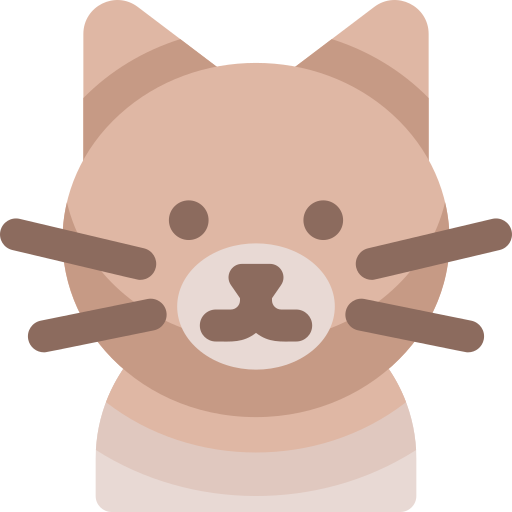
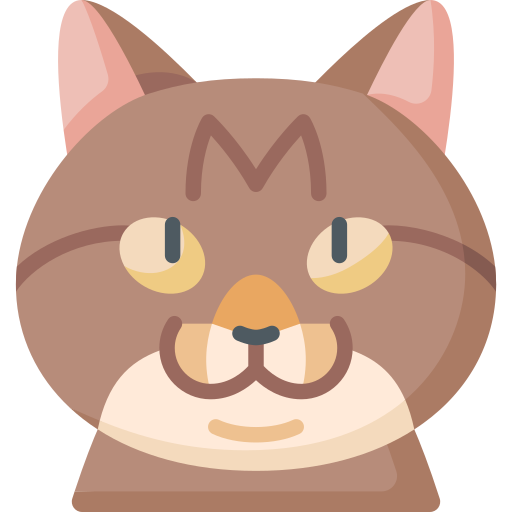
Style Changes, Adding Highscore, Adjust Difficulty
Difficulty now increases based on the current score gradually.

diff --git a/app.js b/app.js
@@ -9,33 +9,38 @@ let cat = [{
 let snack;
 let cellWidth = canvas.width / cols;
 let cellHeight = canvas.height / rows;
-let difficulty;
+let gameSpeed;
 let direction = 'right';
 let snackEaten = false;
 let score = 0;
+let highscore = 0;
 let catImg = document.getElementById('catImg');
+let highscoreText = document.getElementById('highscoreText');
 
 spawnSnack();
-difficulty = setInterval(gameLoop, 250)
+gameSpeed = setInterval(gameLoop, 250)
 document.addEventListener('keydown', keyDown)
 draw();
 
 
 function draw() {
     //Background
-    ctx.fillStyle = 'lightgrey';
+    ctx.fillStyle = '#463730';
     ctx.fillRect(0, 0, canvas.width, canvas.height);
 
     //Cat
     ctx.drawImage(catImg, cat[0].x * cellWidth, cat[0].y * cellHeight, cellWidth, cellHeight);
-    ctx.fillStyle = "#5b453b";
+    ctx.fillStyle = "#ab7b64";
     for (let i = 1; i < cat.length; i++) {
-        addPixel(cat[i].x, cat[i].y);
+        drawElement(cat[i].x, cat[i].y);
     }
 
     //Snack
-    ctx.fillStyle = '#ccac0c';
-    addPixel(snack.x, snack.y);
+    ctx.fillStyle = '#d2ba64';
+    ctx.beginPath();
+    ctx.arc((snack.x * cellWidth + cellWidth / 2), (snack.y * cellHeight + cellHeight / 2), cellWidth / 2, 0, 2 * Math.PI);
+    ctx.stroke();
+    ctx.fill();
 
     requestAnimationFrame(draw);
 }
@@ -52,7 +57,6 @@ function checkGameOver() {
     ) {
         resetGame();
     }
-
 }
 
 function spawnSnack() {
@@ -64,8 +68,7 @@ function spawnSnack() {
         spawnSnack();
 }
 
-
-function addPixel(x, y) {
+function drawElement(x, y) {
     ctx.fillRect(x * cellWidth, y * cellHeight, cellWidth, cellHeight);
 }
 
@@ -105,16 +108,13 @@ function gameLoop() {
         snackEaten = true;
         score++;
         spawnSnack();
+        increaseDifficulty();
     }
+}
 
-    if (score >= 10 && score < 20) {
-        clearInterval(difficulty);
-        difficulty = setInterval(gameLoop, 200);
-    }
-    else if (score >= 20 && score < 30) {
-        clearInterval(difficulty);
-        difficulty = setInterval(gameLoop, 150);
-    }
+function increaseDifficulty() {
+    clearInterval(gameSpeed);
+    gameSpeed = setInterval(gameLoop, 250 - score * 3);
 }
 
 function keyDown(k) {
@@ -145,12 +145,14 @@ function keyDown(k) {
 }
 
 function resetGame() {
-    if (score > 0)
-        alert('You scored ' + score + ' point(s)');
+    if (score > highscore) {
+        highscore = score;
+        highscoreText.innerHTML = 'Last Highscore: ' + highscore;
+    }
     cat = [{ x: 1, y: 1 }];
     direction = 'right';
     score = 0;
     spawnSnack();
-    clearInterval(difficulty);
-    difficulty = setInterval(gameLoop, 250);
+    clearInterval(gameSpeed);
+    gameSpeed = setInterval(gameLoop, 250);
 }

diff --git a/main.css b/main.css
@@ -1,20 +1,18 @@
 body {
-    background: #b2a898;
+    background: #b89c8f;
     color: #281e19;
-    font-family: 'Gill Sans', 'Gill Sans MT', Calibri, 'Trebuchet MS', sans-serif;
+    font-family: Verdana, Geneva, Tahoma, sans-serif;
     text-align: center;
-
 }
 
 h1 {
     font-family: fantasy;
-    color:#5b453b;
+    color: #5a433e;
     font-size: 50px;
     font-variant: small-caps;
-    text-decoration: line-through;
-    border: 3px solid #8c6b5e;
+    border: 3px solid #6c554a;
     border-radius: 25px;
-    background-color: #dfc0b39f;
+    background-color: #f4dabda7;
     margin: 25px;
 }
 
@@ -24,4 +22,13 @@ h1 {
     position: absolute;
     top: 10px;
     right: 50px;
+}
+
+#game {
+    border: #463730 solid 0.5pc;
+    border-radius: 1pc;
+}
+
+#footnote {
+    font-size: 12px;
 }

diff --git a/index.html b/index.html
@@ -10,12 +10,14 @@
 </head>
 
 <body>
-    <h1>SnaCat</h1> 
-    <img id="catImg" src="2325390.png" ></img>
-    <p>Feed the Cat as much Snacks as possible - without biting itself. </p>
+    <h1>SnaCat</h1>
+    <img id="catImg" src="catface.png"></img>
+    <p>Feed SnaCat as much Cheese-Rolls as possible - without biting itself. </p>
+    <p id="highscoreText">Last Highscore: </p>
     <canvas id="game" width="720" height="540"></canvas>
     <script src="app.js"></script>
     <noscript>You need to enable JavaScript to view the full site.</noscript>
+    <div id="footnote">Image by <a href="https://www.flaticon.com/free-icon/manx_6855234">flaticon</a></div>
 </body>
 
 </html>
